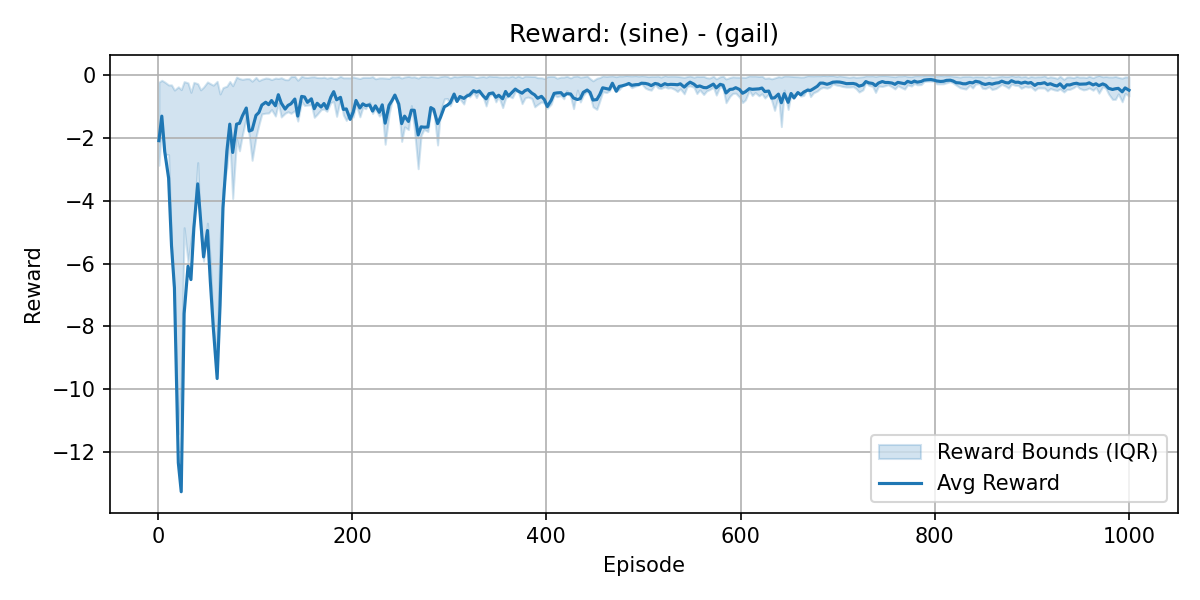
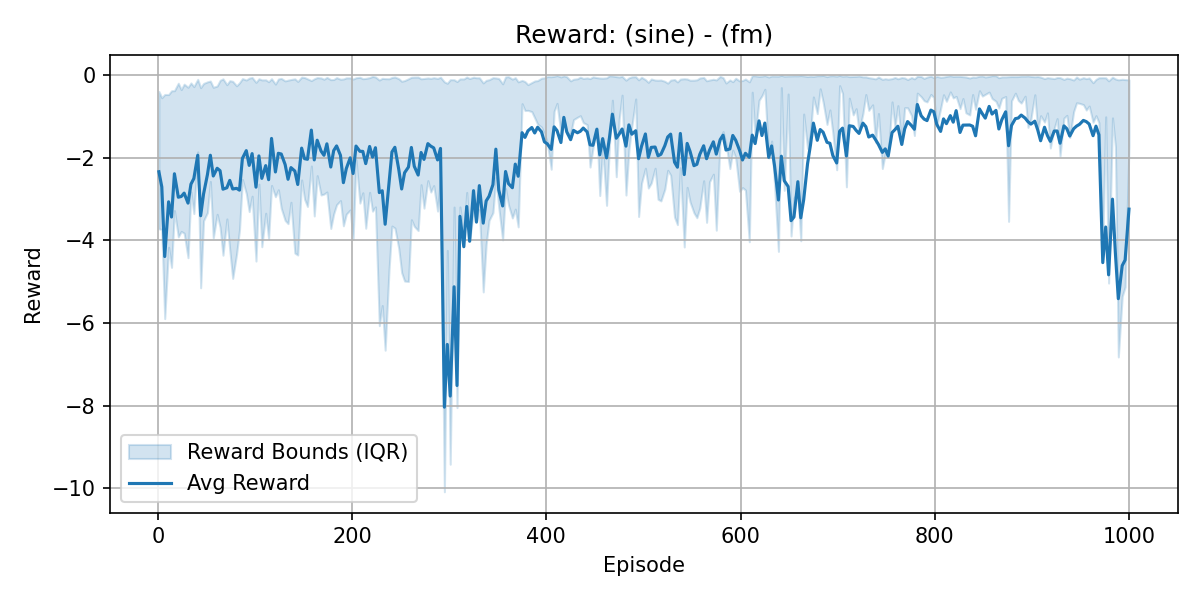
mdb revision

Changed region(s): [[0.0617, 0.12, 0.9867, 0.84], [0.4317, 0.03, 0.6475, 0.09]]

diff --git a/modril/modril/model_base_diffusion.py b/modril/modril/model_base_diffusion.py
@@ -9,6 +9,8 @@ class MBDScore:
             env,
             env_name,
             steps,
+            state_dim,
+            action_dim,
             seed=0,
             disable_recommended_params=False,
             device='cpu',
@@ -28,6 +30,7 @@ class MBDScore:
             disable_recommended_params: Whether to disable recommended parameters
             device: Device to run computations on ('cpu' or 'cuda')
         """
+        self.agent_Y0_buffer = None
         self.device = device
         self.env = env
         self.env_name = env_name
@@ -48,10 +51,12 @@ class MBDScore:
         self.temp_sample = temp_sample
         self.beta0 = 1e-4
         self.betaT = 0.02
+        self.state_dim = state_dim
+        self.action_dim = action_dim
 
         # Recommended parameters for specific environments
         self.recommended_params = {
-            "temp_sample": {"toy": 0.01},
+            "temp_sample": {"toy": 0.1},
             "num_diffusion_steps": {"toy": 50},
             "Nsample": {"toy": 50},
             "Hsample": {"toy": steps}
@@ -60,6 +65,10 @@ class MBDScore:
         # Initialize environment parameters
         self._setup_environment()
         self._setup_diffusion_params()
+
+        self.g_E = None
+        self.g_E_mean = None
+        self.g_A = None
 
     def _setup_environment(self):
         """Initialize the environment and related parameters."""
@@ -102,7 +111,6 @@ class MBDScore:
         # y_bar_N = y / torch.sqrt(alpha_bar_N)
         return y
 
-
     def _reverse_diffusion_step(self, i, Ybar_i):
         """
         Single step of the reverse diffusion process.
@@ -131,13 +139,13 @@ class MBDScore:
         #     rews, q = self._rollout(self.state_init, actions)
         #     rewss.append(rews)
 
-        actions = Y0s.numpy()
+        actions = Y0s[..., self.state_dim:]
         if isinstance(self.state_init, np.ndarray):
             states0 = np.repeat(self.state_init[None, ...], self.Nsample, axis=0)
         else:
             states0 = np.array([self.state_init] * self.Nsample, dtype=np.float32)
-        rewss, _ = self._rollout_batch(states0, actions)
 
+        rewss, _ = self._rollout_batch(states0, actions)
         rews = torch.tensor(np.mean(rewss, axis=-1), device=self.device)
         rew_std = rews.std()
         rew_std = torch.where(rew_std < 1e-4, torch.tensor(1.0, device=self.device), rew_std)
@@ -187,7 +195,7 @@ class MBDScore:
         rews = []
         states = [state]
         for t in range(actions.shape[0]):
-            state, rew, done, _ = self.env.step(state, actions[t])
+            state, rew, done, _ = self.env.step(actions[t])
             rews.append(rew)
             states.append(state)
             if done:
@@ -203,7 +211,7 @@ class MBDScore:
         states = [states0.copy()]
         cur_states = states0.copy()
         done_mask = np.zeros(B, dtype=bool)
-        for t in range(T):
+        for t in range(self.Hsample):
             a_t = actions[:, t]  # a_t: [B, Nu]
             if hasattr(self.env, "batch_step"):
                 next_states, r_t, done_t, _ = self.env.batch_step(cur_states, a_t)
@@ -220,8 +228,8 @@ class MBDScore:
                     r_t[b] = rb
                     done_t[b] = db
             next_states = np.asarray(next_states)
-            r_t_reduced = np.mean(r_t, axis=(1, 2))
-            rews[~done_mask, t] = r_t_reduced[~done_mask]
+            # r_t_reduced = np.mean(r_t, axis=(1, 2))
+            rews[~done_mask, t] = r_t[~done_mask]
             done_mask |= done_t
             cur_states = next_states
             states.append(cur_states.copy())
@@ -245,24 +253,20 @@ class MBDScore:
             Ye = Ye.unsqueeze(1)
         if Ya.dim() == 1:
             Ya = Ya.unsqueeze(1)
-        Y_cat = torch.cat([Ye, Ya], dim=0)
 
         with torch.no_grad():
             if self.use_reward_score:
-                g_cat = self._logp_change_reward(Y_cat)
-                # g_E = self._logp_change_reward(Ye)
-                # g_A = self._logp_change_reward(Ya)
+                if self.g_E is None:
+                    self.g_E = self._logp_change_reward(Ye)
+                self.g_A = self._logp_change_reward(Ya)
             else:
-                g_cat = self._estimate_logp_change(Y_cat)
-                # g_E = self._logp_change_reward(Ye)
-                # g_A = self._logp_change_reward(Ya)
+                if self.g_E is None:
+                    self.g_E = self._estimate_logp_change(Ye)
+                self.g_A = self._estimate_logp_change(Ya)
 
-        g_E, g_A = torch.split(g_cat, [Ye.size(0), Ya.size(0)], dim=0)
-        g_E_mean = g_E.mean()
-        # print(f"[compute_reward] g_E mean {g_E.mean().item():.4f}")
-        # print(f"[compute_reward] g_A mean {g_A.mean().item():.4f}")
-        # print(f"[compute_reward] final mean reward for each agent = {(g_E_mean - g_A).cpu().numpy().mean().round(4)}")
-        return (g_E_mean - g_A).cpu().numpy()
+        if self.g_E_mean is None:
+            self.g_E_mean = self.g_E.mean()
+        return self.g_E_mean - self.g_A
 
     def _estimate_logp_change(self, y0):
         B, D = y0.shape

diff --git a/modril/toy/trainer.py b/modril/toy/trainer.py
@@ -258,6 +258,16 @@ class Trainer:
 
                     kl_ep = float(np.mean(logp_E_expert - logp_A_expert))
                     self.kl_history.append(kl_ep)
+                if self.method in ("modril"):
+                    logp_E_expert = self.trainer.mbd.g_E_mean.cpu().numpy()  # shape (N,)
+                    logp_A_expert = self.trainer.mbd.g_A.cpu().numpy()
+
+                    mean_logpE = float(np.mean(logp_E_expert))
+                    mean_logpA = float(np.mean(logp_A_expert))
+                    self.logpE_history.append(mean_logpE)
+                    self.logpA_history.append(mean_logpA)
+                    kl_ep = float(np.mean(logp_E_expert - logp_A_expert))
+                    self.kl_history.append(kl_ep)
                 elif self.method in ("gail", "drail"):
                     expert_s_t = self.expert_s
                     expert_a_t = self.expert_a
@@ -477,7 +487,7 @@ class Trainer:
 
 
 if __name__ == '__main__':
-    tr = Trainer('sine', 'gail')
+    tr = Trainer('sine', 'fm')
     tr.runner()
-    tr.plot(5)
+    tr.plot(10)
     tr.plot_metrics()

diff --git a/modril/toy/env.py b/modril/toy/env.py
@@ -141,7 +141,7 @@ class Environment1DStatic:
         errors = predicted_y - true_y  # shape=(B,)
         rewards = - (errors ** 2)  # shape=(B,)
 
-        dones = np.ones(B, dtype=bool)
+        dones = np.zeros(B, dtype=bool)
         next_states = np.random.choice(self.x_norm.reshape(-1), size=B)
         info = {"true_y": true_y, "error": errors}
         return next_states.astype(np.float32), rewards.astype(np.float32), dones, info

diff --git a/modril/toy/gail.py b/modril/toy/gail.py
@@ -294,7 +294,7 @@ class GAIL_MBD:
             device='cuda',
             mbd_kwargs: dict | None = None
     ):
-        self.mbd = MBDScore(env, env_name, steps=steps, device=device, **(mbd_kwargs or {}))
+        self.mbd = MBDScore(env, env_name, steps=steps, device=device, state_dim=state_dim, action_dim=action_dim, **(mbd_kwargs or {}))
         self.agent = agent
         self.device = device
         self.state_dim = state_dim
